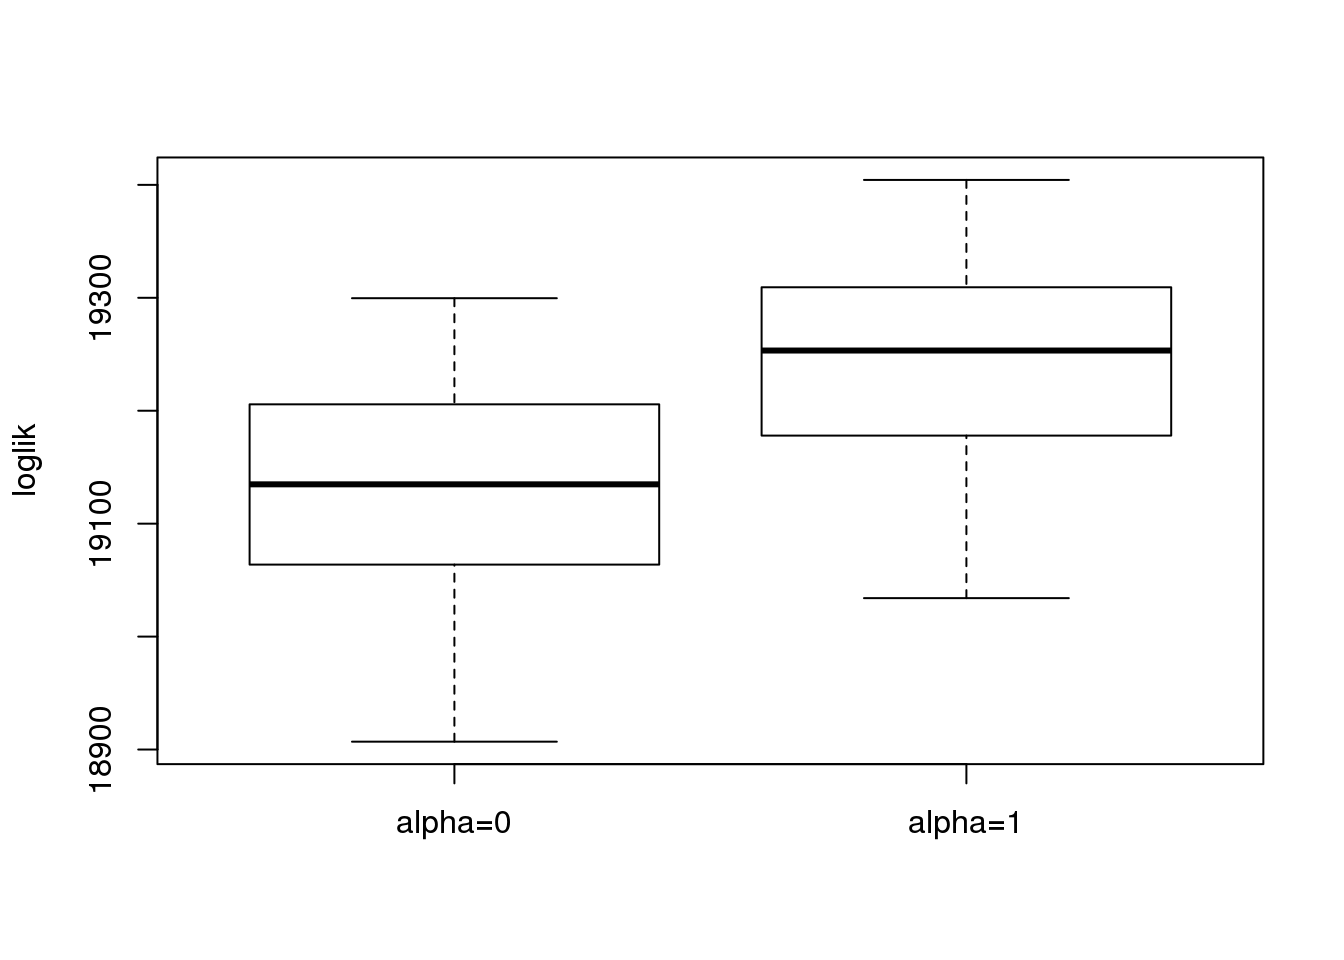
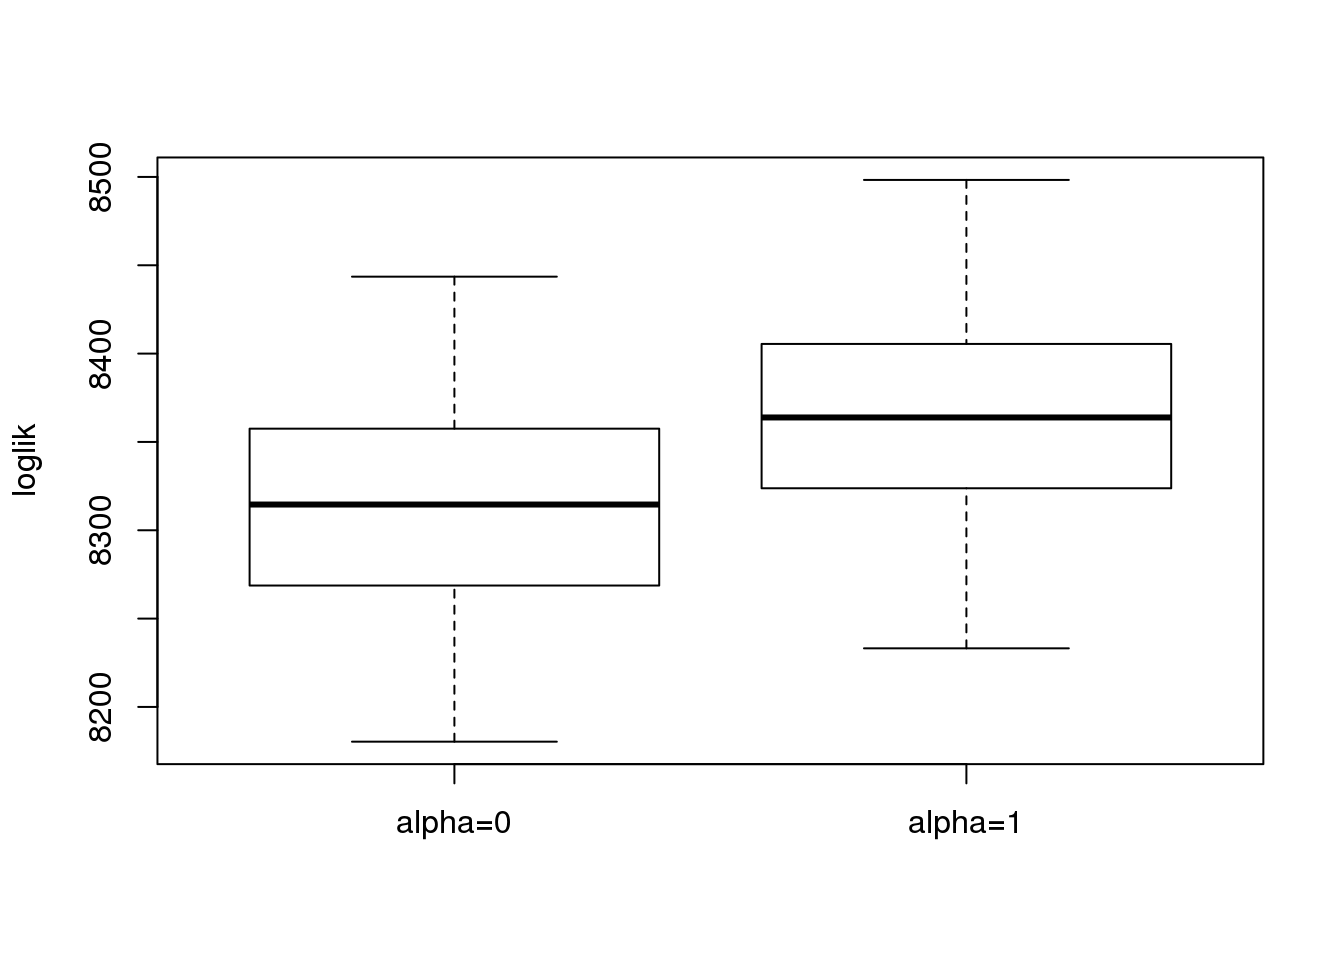
Build site.

diff --git a/docs/binomialthinning.html b/docs/binomialthinning.html
@@ -452,10 +452,10 @@ This reproducible <a href="http://rmarkdown.rstudio.com">R Markdown</a> analysis
 <div class="panel panel-default">
 <div class="panel-heading">
 <p class="panel-title">
-<a data-toggle="collapse" data-parent="#workflowr-checks" href="#strongRepositoryversionstrongahrefhttpsgithubcomDongyueXiemisctree9e60ba9600a9bc999e81c66cdbac1cde48740b7dtargetblank9e60ba9a"> <span class="glyphicon glyphicon-ok text-success" aria-hidden="true"></span> <strong>Repository version:</strong> <a href="https://github.com/DongyueXie/misc/tree/9e60ba9600a9bc999e81c66cdbac1cde48740b7d" target="_blank">9e60ba9</a> </a>
+<a data-toggle="collapse" data-parent="#workflowr-checks" href="#strongRepositoryversionstrongahrefhttpsgithubcomDongyueXiemisctree6b5f6c0efb6de62b70d6be107da80846afc97438targetblank6b5f6c0a"> <span class="glyphicon glyphicon-ok text-success" aria-hidden="true"></span> <strong>Repository version:</strong> <a href="https://github.com/DongyueXie/misc/tree/6b5f6c0efb6de62b70d6be107da80846afc97438" target="_blank">6b5f6c0</a> </a>
 </p>
 </div>
[2 lines of base64/hex data omitted]
 <div class="panel-body">
 <p>
 Great! You are using Git for version control. Tracking code development and connecting the code version to the results is critical for reproducibility. The version displayed above was the version of the Git repository at the time these results were generated. <br><br> Note that you need to be careful to ensure that all relevant files for the analysis have been committed to Git prior to generating the results (you can use <code>wflow_publish</code> or <code>wflow_git_commit</code>). workflowr only checks the R Markdown file, but you know if there are other scripts or data files that it depends on. Below is the status of the Git repository when the results were generated:
@@ -464,15 +464,14 @@ Great! You are using Git for version control. Tracking code development and conn
 Ignored files:
     Ignored:    .Rhistory
     Ignored:    .Rproj.user/
-    Ignored:    analysis/figure/
 
 Untracked files:
     Untracked:  analysis/gsea.Rmd
     Untracked:  analysis/methylation.Rmd
     Untracked:  analysis/scdeCalibration.Rmd
     Untracked:  analysis/susie.Rmd
-    Untracked:  code/Rplots.pdf
     Untracked:  code/sccytokines.R
+    Untracked:  code/scdeCalibration.R
     Untracked:  data/bart/
     Untracked:  data/cytokine/DE_controls_output_filter10.RData
     Untracked:  data/cytokine/DE_controls_output_filter10_addlimma.RData
@@ -526,6 +525,40 @@ Message
 </tr>
 </thead>
 <tbody>
+<tr>
+<td>
+Rmd
+</td>
+<td>
+<a href="https://github.com/DongyueXie/misc/blob/6b5f6c0efb6de62b70d6be107da80846afc97438/analysis/binomialthinning.Rmd" target="_blank">6b5f6c0</a>
+</td>
+<td>
+DongyueXie
+</td>
+<td>
+2020-03-11
+</td>
+<td>
+wflow_publish(“analysis/binomialthinning.Rmd”)
+</td>
+</tr>
+<tr>
+<td>
+html
+</td>
+<td>
+<a href="https://rawcdn.githack.com/DongyueXie/misc/ab29772bac3bf79de37c16c514044fd74871c699/docs/binomialthinning.html" target="_blank">ab29772</a>
+</td>
+<td>
+DongyueXie
+</td>
+<td>
+2020-03-11
+</td>
+<td>
+Build site.
+</td>
+</tr>
 <tr>
 <td>
 Rmd
@@ -664,14 +697,14 @@ quiet &lt;- function(x) {
 <pre class="r"><code>library(sva)
 load(&#39;data/scde/scCDT.RData&#39;)
 Z = t(as.matrix(CDT))
-rm.idx = which(colSums(Z!=0)&lt;10)
+rm.idx = which(colSums(Z!=0)&lt;30)
 Z = Z[,-rm.idx]
 n = nrow(Z)
 p = ncol(Z)
 
 set.seed(12345)
 
-nreps = 50
+nreps = 30
 
 loglik=c()
 roc_result = c()
@@ -733,8 +766,158 @@ colnames(loglik) = c(&#39;alpha=0&#39;,&#39;alpha=1&#39;)
 
 boxplot(loglik,ylab = &#39;loglik&#39;)</code></pre>
 <p><img src="figure/binomialthinning.Rmd/unnamed-chunk-2-1.png" width="672" style="display: block; margin: auto;" /></p>
+<p>
+<button type="button" class="btn btn-default btn-xs btn-workflowr btn-workflowr-fig" data-toggle="collapse" data-target="#fig-unnamed-chunk-2-1">
+Past versions of unnamed-chunk-2-1.png
+</button>
+</p>
+<div id="fig-unnamed-chunk-2-1" class="collapse">
+<div class="table-responsive">
+<table class="table table-condensed table-hover">
+<thead>
+<tr>
+<th>
+Version
+</th>
+<th>
+Author
+</th>
+<th>
+Date
+</th>
+</tr>
+</thead>
+<tbody>
+<tr>
+<td>
+<a href="https://github.com/DongyueXie/misc/blob/ab29772bac3bf79de37c16c514044fd74871c699/docs/figure/binomialthinning.Rmd/unnamed-chunk-2-1.png" target="_blank">ab29772</a>
+</td>
+<td>
+DongyueXie
+</td>
+<td>
+2020-03-11
+</td>
+</tr>
+</tbody>
+</table>
+</div>
+</div>
 <pre class="r"><code>boxplot(roc_result,ylab=&#39;AUC&#39;)</code></pre>
 <p><img src="figure/binomialthinning.Rmd/unnamed-chunk-2-2.png" width="672" style="display: block; margin: auto;" /></p>
+<p>
+<button type="button" class="btn btn-default btn-xs btn-workflowr btn-workflowr-fig" data-toggle="collapse" data-target="#fig-unnamed-chunk-2-2">
+Past versions of unnamed-chunk-2-2.png
+</button>
+</p>
+<div id="fig-unnamed-chunk-2-2" class="collapse">
+<div class="table-responsive">
+<table class="table table-condensed table-hover">
+<thead>
+<tr>
+<th>
+Version
+</th>
+<th>
+Author
+</th>
+<th>
+Date
+</th>
+</tr>
+</thead>
+<tbody>
+<tr>
+<td>
+<a href="https://github.com/DongyueXie/misc/blob/ab29772bac3bf79de37c16c514044fd74871c699/docs/figure/binomialthinning.Rmd/unnamed-chunk-2-2.png" target="_blank">ab29772</a>
+</td>
+<td>
+DongyueXie
+</td>
+<td>
+2020-03-11
+</td>
+</tr>
+</tbody>
+</table>
+</div>
+</div>
+<pre class="r"><code>library(sva)
+load(&#39;data/scde/scCDT.RData&#39;)
+Z = t(as.matrix(CDT))
+rm.idx = which(colSums(Z!=0)&lt;30)
+Z = Z[,-rm.idx]
+n = nrow(Z)
+p = ncol(Z)
+
+set.seed(12345)
+
+nreps = 30
+
+loglik=c()
+roc_result = c()
+
+beta = rnorm(p,0,1.5)
+beta[sample(1:p,p*0.9)]=0
+
+for(rep in 1:nreps){
+  
+x = rbinom(n,1,0.5)
+
+
+W = bi_thin(Z,x,beta)
+
+Wn = log(W+0.5)
+
+X = model.matrix(~x)
+
+sva_sva = quiet(sva(t(Wn),mod = X, mod0 = X[, -2, drop = FALSE], n.sv = 3))
+
+X.sva = cbind(X, sva_sva$sv)
+lmout = limma::lmFit(object = t(Wn), design = X.sva)
+eout  = limma::eBayes(lmout)
+
+svaout           &lt;- list()
+svaout$betahat   &lt;- lmout$coefficients[, 2]
+svaout$sebetahat &lt;- lmout$stdev.unscaled[, 2] * sqrt(eout$s2.post)
+svaout$pvalues   &lt;- eout$p.value[, 2]
+
+sva_limma_ash0 = ashr::ash(svaout$betahat,svaout$sebetahat,alpha=0)
+
+sva_limma_ash1 = ashr::ash(svaout$betahat,svaout$sebetahat,alpha=1)
+
+loglik = rbind(loglik,c(sva_limma_ash0$loglik,sva_limma_ash1$loglik))
+
+#knitr::kable(cbind(sva_limma_ash0$loglik,sva_limma_ash1$loglik), 
+#             col.names = c(&#39;alpha=0&#39;,&#39;alpha=1&#39;), digits = 2,caption = &#39;log-lik&#39;)
+
+
+which_null = ifelse(beta==0,1,0)
+################
+roc_out &lt;- list(
+  #pROC::roc(response = which_null, predictor = c(mout$result$lfsr)),
+  #pROC::roc(response = which_null, predictor = c(mout1$result$lfsr)),
+  pROC::roc(response = which_null, predictor = c(svaout$pvalues)),
+  pROC::roc(response = which_null, predictor = c(sva_limma_ash0$result$lfsr)),
+  pROC::roc(response = which_null, predictor = c(sva_limma_ash1$result$lfsr)))
+#name_vec &lt;- c(&quot;MOUTHWASH0&quot;,&quot;MOUTHWASH1&quot;,&quot;SVA-limma&quot;,&quot;SVA-limma-ash0&quot;,&quot;SVA-limma-ash1&quot;)
+
+auc_vec &lt;- sapply(roc_out, FUN = function(x) { x$auc })
+roc_result = rbind(roc_result,auc_vec)
+
+#knitr::kable(sort(auc_vec, decreasing = TRUE), col.names = &quot;AUC&quot;, digits = 3)
+
+}
+
+name_vec &lt;- c(&quot;sva-limma&quot;,&quot;sva-limma-ash0&quot;,&quot;sva-limma-ash1&quot;)
+colnames(roc_result) &lt;- name_vec
+
+colnames(loglik) = c(&#39;alpha=0&#39;,&#39;alpha=1&#39;)
+
+boxplot(loglik,ylab = &#39;loglik&#39;)</code></pre>
+<p><img src="figure/binomialthinning.Rmd/unnamed-chunk-3-1.png" width="672" style="display: block; margin: auto;" /></p>
+<pre class="r"><code>boxplot(roc_result,ylab=&#39;AUC&#39;)</code></pre>
+<p><img src="figure/binomialthinning.Rmd/unnamed-chunk-3-2.png" width="672" style="display: block; margin: auto;" /></p>
 <br>
 <p>
 <button type="button" class="btn btn-default btn-workflowr btn-workflowr-sessioninfo" data-toggle="collapse" data-target="#workflowr-sessioninfo" style="display: block;">
